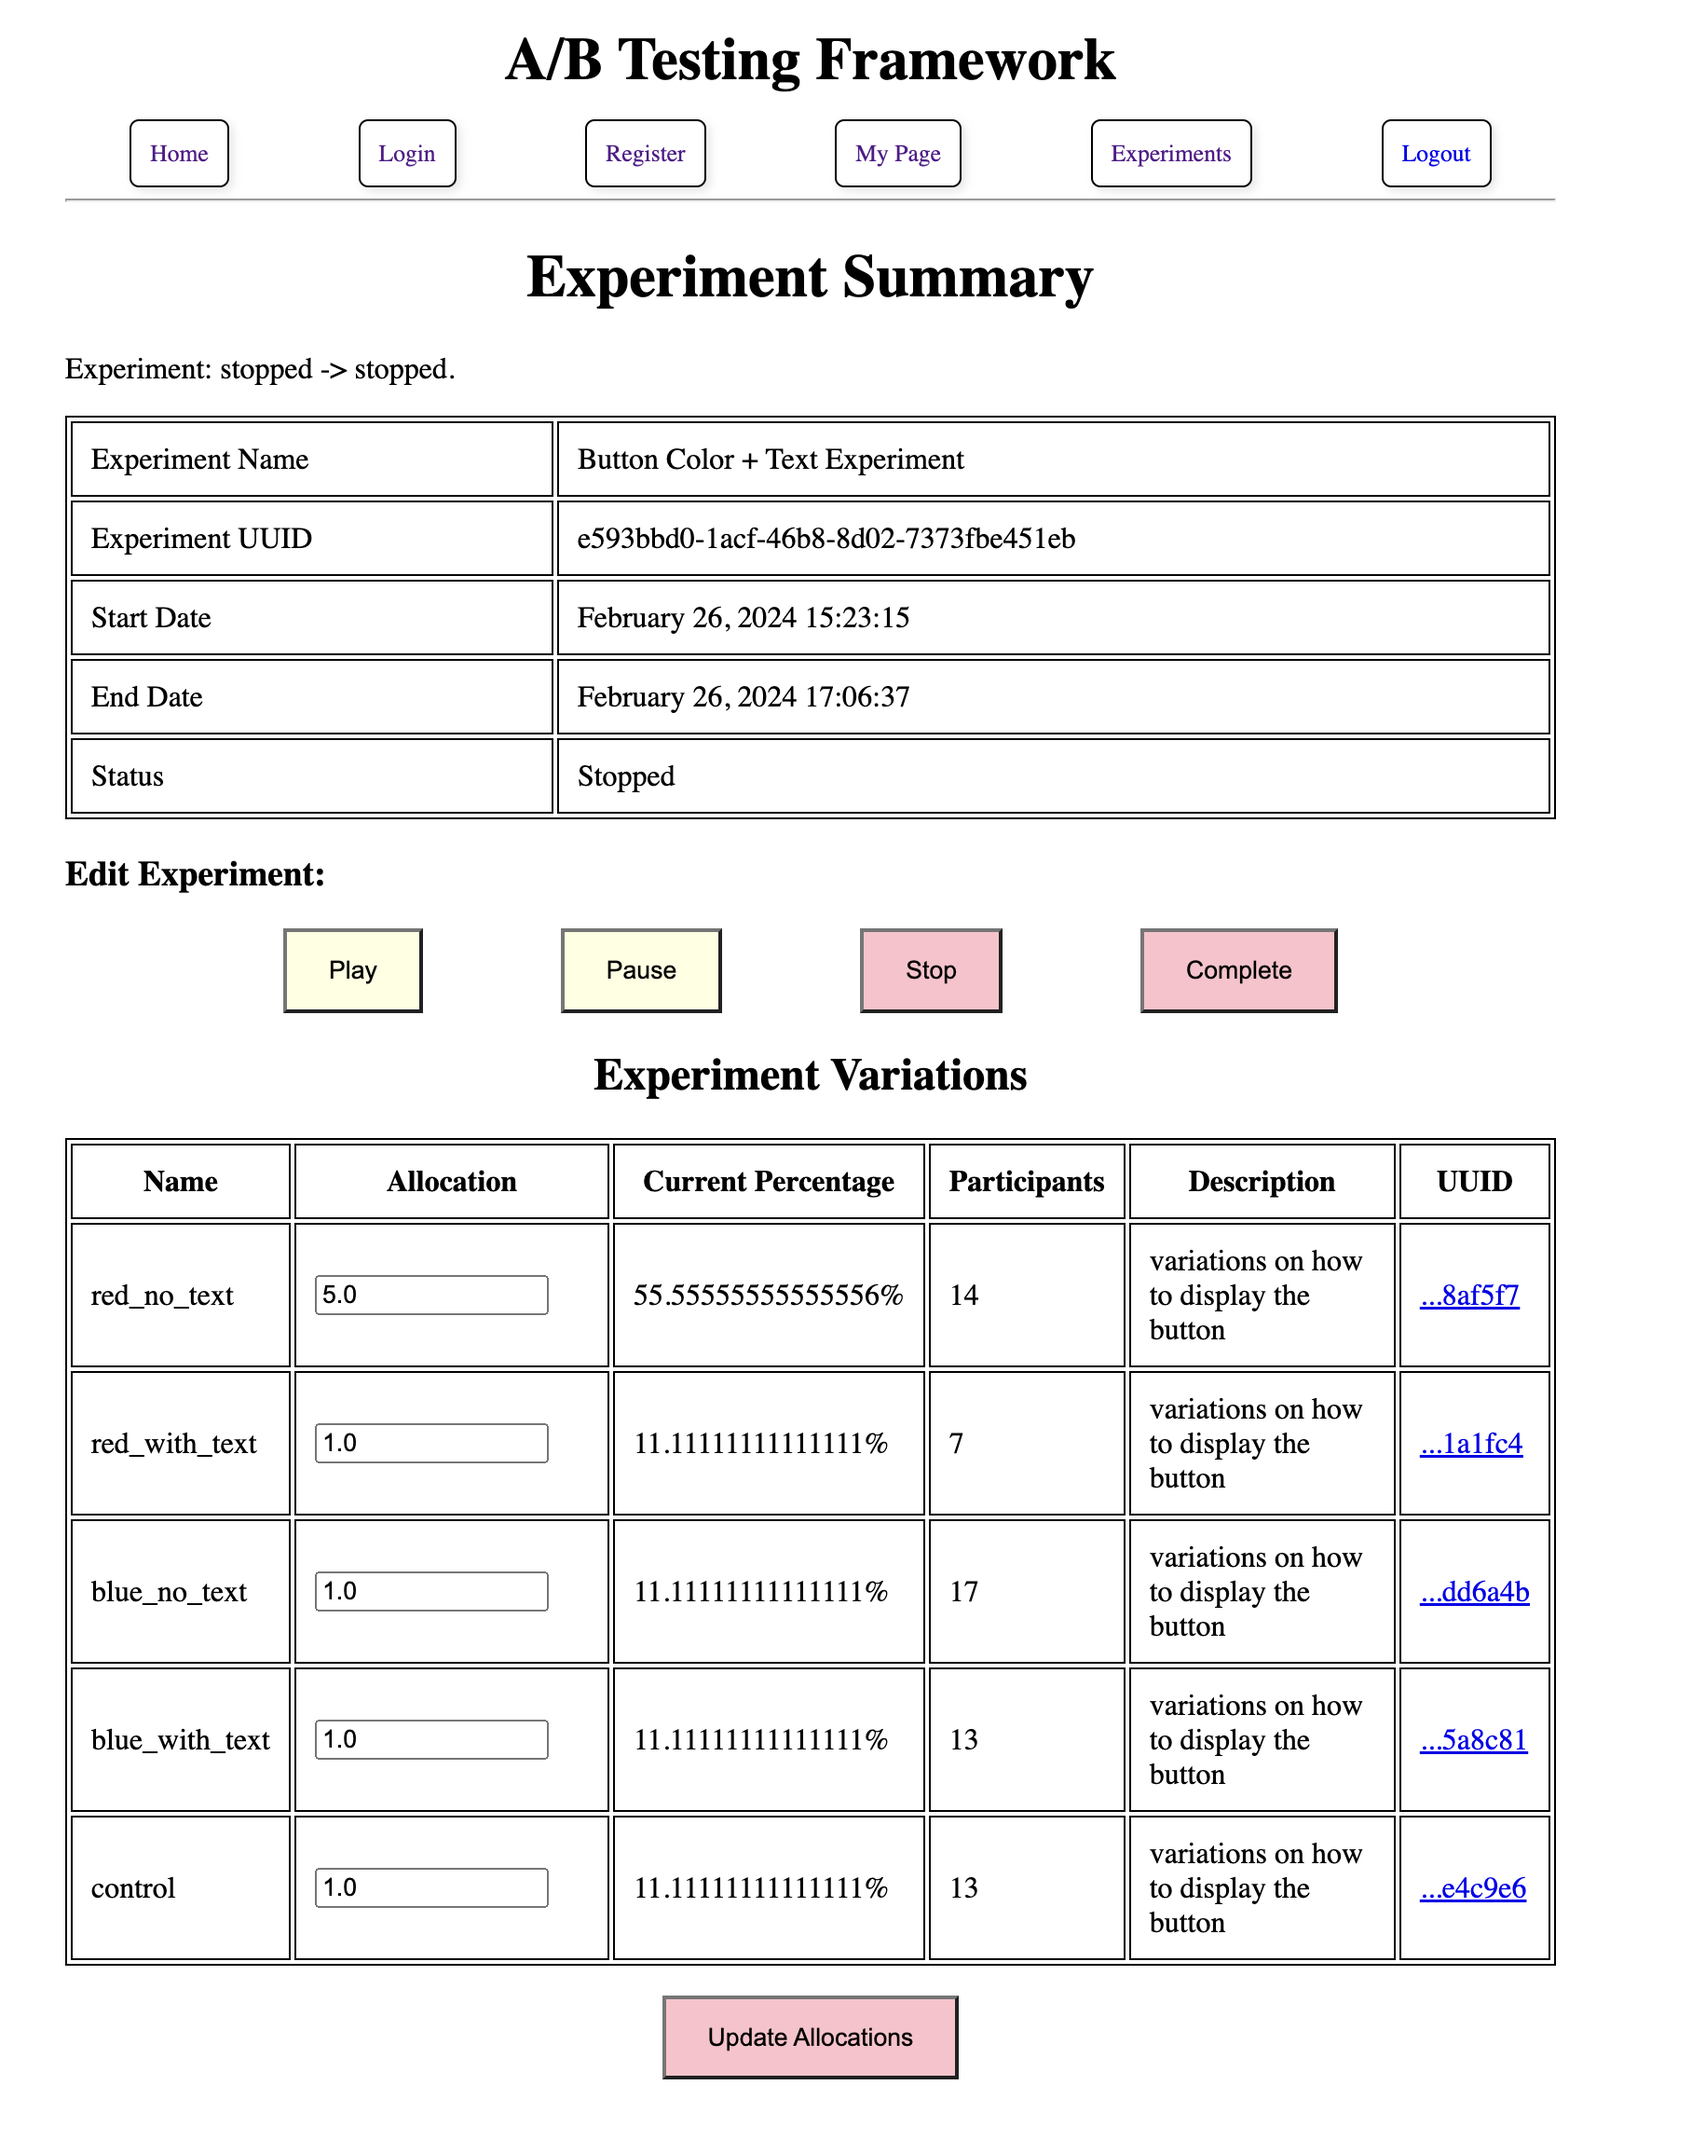
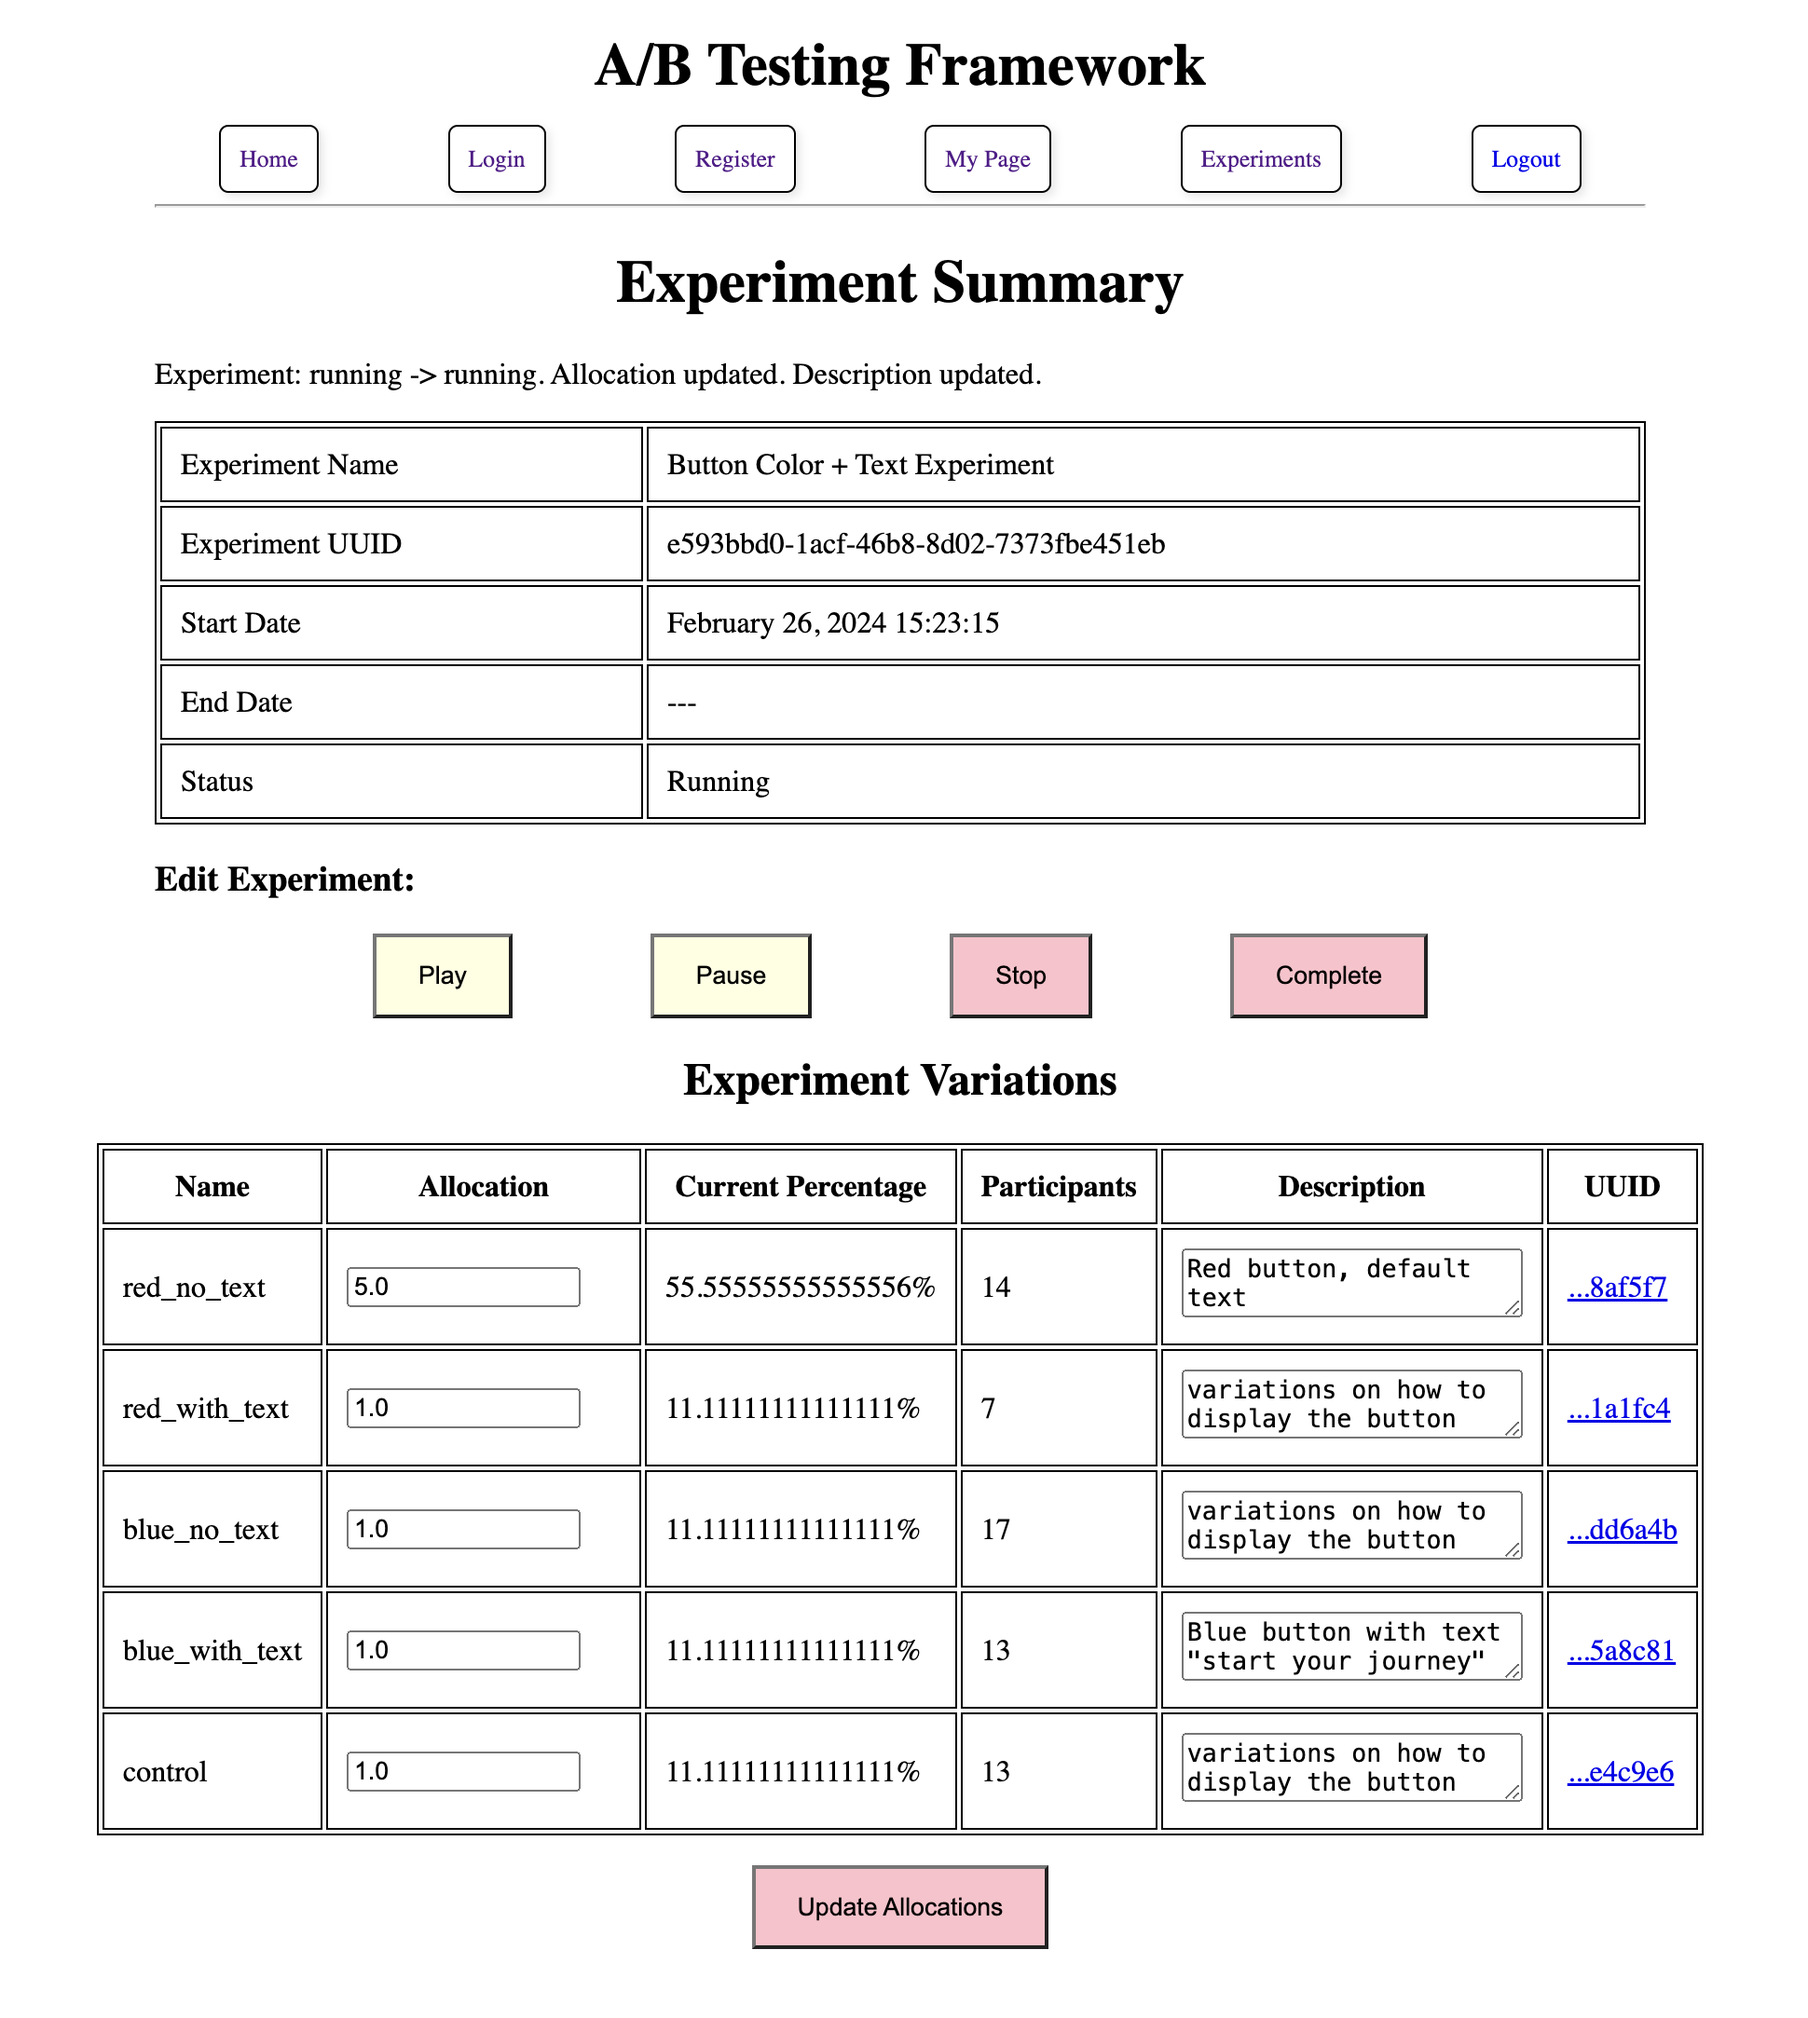
Allow editing of description

diff --git a/src/flaskapp/templates/experiment.html b/src/flaskapp/templates/experiment.html
@@ -80,7 +80,7 @@ asking, "are you really sure?" -->
         <td>{{ variant.allocation / summary['total_allocation'] * 100}}%</td>
         {% endif %}
         <td>{{ variant.participants|length }}</td>
-        <td>{{ variant.description }}</td>
+        <td><textarea name="variant-description">{{ variant.description }}</textarea></td>
         <!-- The variant page has not been created/probably will not be, but this is an easy way to abbreviate the variant uuid
         while still maintaining the ability to view the entire thing. -->
         <td><a href="#/variant?variant_uuid={{ variant.variant_uuid }}">...{{ (variant.variant_uuid|string)[-6:] }}</a></td>

diff --git a/src/interface.py b/src/interface.py
@@ -8,7 +8,7 @@ import uuid
 from typing import Optional
 
 from src.database.models import Experiment, ExperimentStatus, ExperimentVariant
-from src.database.repository import ExperimentRepository
+from src.database.repository import ExperimentRepository, ExperimentVariantRepository
 from src.services import ExperimentService, ExperimentVariantService
 
 
@@ -118,5 +118,28 @@ class ExperimentInterface:
 
         for i, variant_uuid in enumerate(experiment.experiment_variants):
             ExperimentVariantService.update_allocation(variant_uuid, allocations[i])
+
+        return True
+    
+    @staticmethod
+    def update_variant_descriptions(
+        experiment_uuid: uuid.UUID, descriptions: list[str]
+    ) -> bool:
+        """
+        Update the variant descriptions with the new values provided.
+        The order of the descriptions should match the order of the variants UUIDS
+        """
+        experiment: Experiment = ExperimentRepository.read(experiment_uuid)
+        if not experiment:
+            return False
+
+        if len(descriptions) != len(experiment.experiment_variants):
+            return False
+
+        if not ExperimentInterface.experiment_in_progress(experiment_uuid):
+            return False
+
+        for i, variant_uuid in enumerate(experiment.experiment_variants):
+            ExperimentVariantRepository.update(variant_uuid, description=descriptions[i])
 
         return True

diff --git a/src/flaskapp/app.py b/src/flaskapp/app.py
@@ -252,6 +252,7 @@ def experiment_route(experiment_uuid):
     if request.method == "POST":
         experiment_button = request.form.get("status-adv", "")
         update_allocations = request.form.getlist("allocation-value")
+        update_descriptions = request.form.getlist("variant-description")
         previous_status = ExperimentService.get_experiment(
             actual_uuid
         ).experiment_status
@@ -275,9 +276,18 @@ def experiment_route(experiment_uuid):
                 actual_uuid, float_allocations
             )
             if not allocated:
-                message += "\nAllocation update failed"
+                message += "\nAllocation update failed."
             else:
-                message += "\nAllocation updated"
+                message += "\nAllocation updated."
+
+        if update_descriptions:
+            updated = ExperimentInterface.update_variant_descriptions(
+                actual_uuid, update_descriptions
+            )
+            if not updated:
+                message += "\nDescription update failed."
+            else:
+                message += "\nDescription updated."
 
         return render_template(
             "experiment.html",

diff --git a/src/database/repository.py b/src/database/repository.py
@@ -69,7 +69,7 @@ class BaseRepository:
             if arg not in model_fields or arg == cls.model_class().UUID_FIELD:
                 raise Exception(f"Invalid field: {arg}")
 
-            if isinstance(arg_value, Enum):
+            if isinstance(arg_value, Enum) and arg_value is not None:
                 current_instance.__dict__[arg] = arg_value.value
             else:
                 current_instance.__dict__[arg] = arg_value
